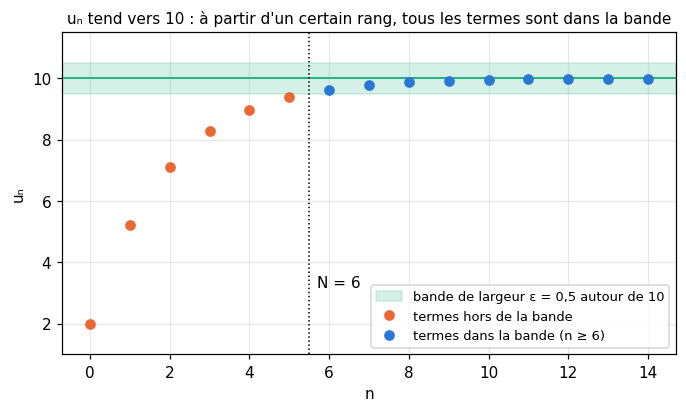
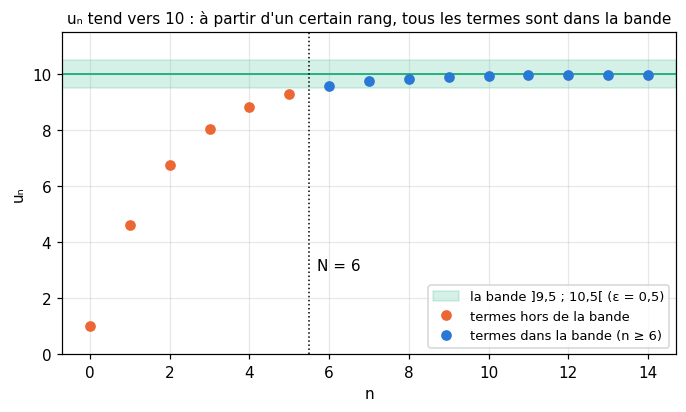
R5: suites (en cours : corrections de la relecture à l'aveugle)
Claude-Session: https://claude.ai/code/session_01Nzd2BLBqKp1WGBHcAcsxs2

diff --git a/tools/chapters/build_r5.py b/tools/chapters/build_r5.py
@@ -96,7 +96,7 @@ PAPER = [
          'mistakes={"une puissance impaire d\'un nombre négatif est négative": 486, '
          '"t₅ : cinq multiplications par −3 depuis t₀": {2 * (-3) ** 4, 2 * (-3) ** 6}}'),
         ("g", "an integer", "next(n for n in range(50) if 500 * 1.2**n > 2000)",
-         'mistakes={"calcule p₇ : la population n\'a pas encore dépassé 2 000": 7, '
+         'fractional="un nombre d\'heures entier : le premier entier qui convient, pas un arrondi", mistakes={"calcule p₇ : la population n\'a pas encore dépassé 2 000": 7, '
          '"les hausses se composent : on multiplie par 1,2 chaque heure, on n\'ajoute pas 100": 16}'),
     ]),
     Paper("R5.4", "Sommes arithmétiques et géométriques", [
@@ -122,6 +122,7 @@ PAPER = [
          '"la raison est −2 : 1 − q = 1 + 2": 1023, "de k = 0 à 9 : 10 termes": 683}'),
         ("h", "an expression in n, as text", '"n**2 + 2*n"',
          'kind="expr", variables=("n",), mistakes={"de k = 0 à n − 1, la somme des k vaut (n − 1)n/2": "n**2 + 4*n", '
+         '"la somme s\'arrête à k = n − 1 : n termes, pas n + 1": "n**2 + 4*n + 3", '
          '"la constante 3 est ajoutée n fois": "n**2 - n + 3", '
          '"le dernier terme est celui de k = n − 1 : 3 + 2(n − 1)": "n**2 + 3*n"}'),
     ]),
@@ -139,7 +140,7 @@ PAPER = [
         ("e", "True or False", "False",
          'mistakes={"la raison 1,1 est plus grande que 1 : les termes grandissent, et les sommes partielles aussi": True}'),
         ("f", "an integer", "next(n for n in range(1, 100) if 4 - 4 * (1 - 0.75**n) < 0.1)",
-         'mistakes={"pour ce nombre de termes, l\'écart à la limite est encore supérieur à 0,1": 12, '
+         'fractional="un nombre de termes est entier : le premier entier qui convient, pas un arrondi", mistakes={"pour ce nombre de termes, l\'écart à la limite est encore supérieur à 0,1": 12, '
          '"l\'écart entre la limite et la somme partielle vaut premier terme × qⁿ / (1 − q) (fiche §5)": 9, '
          '"un nombre de termes plus petit convient déjà : essaie les valeurs une par une": 14}'),
     ]),
@@ -153,7 +154,7 @@ PAPER = [
          'decimals=2, mistakes={"à intérêts simples, les intérêts sont les mêmes chaque année : 2,5 % du capital de départ": '
          'round(3000 * 1.025**10, 2)}'),
         ("d", "an integer", "next(n for n in range(100) if 3000 * 1.025**n > 4000)",
-         'mistakes={"calcule le capital au bout de ce nombre d\'années : il n\'a pas encore dépassé 4 000 €": 11, '
+         'fractional="un nombre d\'années pleines : le premier entier qui convient, pas un arrondi", mistakes={"calcule le capital au bout de ce nombre d\'années : il n\'a pas encore dépassé 4 000 €": 11, '
          '"les intérêts se composent : on multiplie par 1,025 chaque année": 14}'),
         ("e", "a number (2 decimals)", "round(5000 / 1.025**6, 2)",
          'decimals=2, mistakes={"actualiser, c\'est diviser par 1,025⁶, pas multiplier": round(5000 * 1.025**6, 2), '
@@ -199,7 +200,7 @@ PAPER = [
         ("g", "a list (6 decimals)", "[-2 / 3, 2 / 3]",
          'decimals=6, ordered=False, mistakes={"q² = 4/9 a deux solutions, opposées": [2 / 3], '
          '"q² = 4/9 : prends les racines carrées": [-4 / 9, 4 / 9], "q² = 4/9 : la raison est une racine carrée '
-         'de 4/9": [4 / 9]}'),
+         'de 4/9": [4 / 9], "6 décimales : arrondis au plus proche, ne tronque pas": [-0.666666, 0.666666]}'),
     ]),
     Paper("R5.11", "Actualiser : ce que vaut aujourd'hui une somme versée chaque année", [
         ("a", "a number (2 decimals)", "round(1000 / 1.04, 2)",
@@ -211,7 +212,7 @@ PAPER = [
         ("c", "a number (2 decimals)", "round(present_value(1000, 0.04, 8), 2)",
          'decimals=2, mistakes={"chaque versement vaut moins aujourd\'hui : actualise-les": 8000, '
          '"le premier versement arrive dans un an : il est déjà actualisé une fois": '
-         'round(present_value(1000, 0.04, 8, first=0), 2), '
+         '{round(present_value(1000, 0.04, 8, first=0), 2), round(present_value(1000, 0.04, 8, first=0), 2) + 0.01}, '
          '"on cherche la valeur aujourd\'hui : on divise par les puissances de 1,04, on ne multiplie pas": '
          'round(sum(1000 * 1.04**k for k in range(8)), 2), '
          '"il y a 8 versements, de l\'année 1 à l\'année 8": {round(present_value(1000, 0.04, 7), 2), '
@@ -235,7 +236,7 @@ PAPER = [
          'window_means(X12, 4)[1] + (X12[5] - X12[0]) / 4}, '
          '"la différence des deux valeurs est divisée par 4": window_means(X12, 4)[1] + (X12[5] - X12[1])}'),
         ("e", "a list of 2 integers", "[99, 2]",
-         'mistakes={"additionner 100 nombres demande 99 additions": [100, 2], '
+         'mistakes={"additionner 100 nombres demande au minimum 99 additions (on part du premier nombre)": [100, 2], '
          '"la mise à jour fait une soustraction et une addition (la division ne compte pas ici)": [99, 3], '
          '"la mise à jour fait une soustraction, puis une addition à l\'ancienne moyenne": [99, 1], '
          '"dans l\'ordre [direct, mise à jour]": [2, 99]}'),

diff --git a/tools/chapters/figures_r5.py b/tools/chapters/figures_r5.py
@@ -73,7 +73,7 @@ def fig_geometric_ratios() -> None:
                                       ("tend vers 0", "oscille et tend vers 0", "constante", "tend vers +∞"),
                                       (C[0], C[2], C[3], C[1])):
         ax.axhline(0, color="gray", linewidth=0.8)
-        ax.plot(n, q**n, "o-", color=colour, markersize=4, linewidth=1)
+        ax.plot(n, q**n, "o", color=colour, markersize=4)           # points only: a sequence lives on the integers
         ax.set_title(f"q = {french_number(q)} : {comment}", fontsize=10)
         ax.set_xlabel("n")
         ax.grid(True, alpha=0.3)
@@ -84,20 +84,20 @@ def fig_geometric_ratios() -> None:
 
 
 def fig_limit() -> None:
-    """§5: uₙ = 10 − 8 × 0,6ⁿ tends to 10; from N = 6 on, every term stays within ε = 0,5 of 10."""
+    """§5: uₙ = 10 − 9 × 0,6ⁿ tends to 10; from N = 6 on, every term stays within ε = 0,5 of 10."""
     n = np.arange(0, 15)
-    u = 10 - 8 * 0.6**n
+    u = 10 - 9 * 0.6**n
     fig, ax = plt.subplots(figsize=(7.2, 3.8))
-    ax.axhspan(9.5, 10.5, color=C[2], alpha=0.18, label="bande de largeur ε = 0,5 autour de 10")
+    ax.axhspan(9.5, 10.5, color=C[2], alpha=0.18, label="la bande ]9,5 ; 10,5[ (ε = 0,5)")
     ax.axhline(10, color=C[2], linewidth=1.2)
     inside = np.abs(u - 10) < 0.5
     ax.plot(n[~inside], u[~inside], "o", color=C[1], markersize=6, label="termes hors de la bande")
     ax.plot(n[inside], u[inside], "o", color=C[0], markersize=6, label="termes dans la bande (n ≥ 6)")
     ax.axvline(5.5, color="black", linestyle=":", linewidth=1)
-    ax.text(5.7, 3.2, "N = 6", fontsize=10)
+    ax.text(5.7, 3.0, "N = 6", fontsize=10)
     ax.set_xlabel("n")
     ax.set_ylabel("uₙ")
-    ax.set_ylim(1, 11.5)
+    ax.set_ylim(0, 11.5)
     ax.set_title("uₙ tend vers 10 : à partir d'un certain rang, tous les termes sont dans la bande", fontsize=10)
     ax.grid(True, alpha=0.3)
     ax.legend(fontsize=8.5, loc="lower right")

diff --git a/chapitres/r5_suites/01_fiche.md b/chapitres/r5_suites/01_fiche.md
@@ -50,7 +50,7 @@ Parcours essentiel : tout sauf R5.Q6, R5.R2, R5.6, R5.10, R5.17, R5.19, R5.20 et
 5. Somme de $n$ termes consécutifs d'une suite géométrique de raison $q \ne 1$ : **premier terme × $\frac{1 - q^n}{1 - q}$** ; si $q = 1$, $n$ fois le premier terme.
 6. $u_n$ **tend vers** $\ell$ si, pour tout écart $\varepsilon > 0$, tous les termes sont à moins de $\varepsilon$ de $\ell$ à partir d'un certain rang.
 7. $q^n$ tend vers 0 si $\lvert q \rvert < 1$, vers $+\infty$ si $q > 1$ ; il reste égal à 1 si $q = 1$ et n'a pas de limite si $q \le -1$.
-8. Si $\lvert q \rvert < 1$, la **somme infinie** $u_0 + u_0 q + u_0 q^2 + \dots$ vaut $\frac{u_0}{1 - q}$ ; sinon elle n'a pas de valeur finie (pour $u_0 \ne 0$).
+8. Si $\lvert q \rvert < 1$, la **somme infinie** $u_0 + u_0 q + u_0 q^2 + \dots$ vaut $\frac{u_0}{1 - q}$ ; si $\lvert q \rvert \ge 1$ (et $u_0 \ne 0$), elle n'a pas de valeur.
 9. **Moyenne mobile** sur $k$ valeurs : la moyenne des $k$ dernières valeurs, chacune de poids $\frac{1}{k}$.
 10. **Moyenne exponentielle** : $v_0 = 0$ et $v_t = \beta\,v_{t-1} + (1 - \beta)\,x_t$ ; les poids des valeurs passées forment une suite géométrique de raison $\beta$, et les premières valeurs de $v$ sont tirées vers 0.
 
@@ -170,7 +170,7 @@ Plus généralement, $v_n = v_p\,q^{\,n - p}$ ; si la suite commence au rang 1, 
 
 ### Reconnaître une suite géométrique
 
-Pour une suite dont aucun terme n'est nul, elle est géométrique si et seulement si le **quotient** $\frac{u_{n+1}}{u_n}$ est le même pour tous les $n$ ; ce quotient est la raison.
+Une suite dont aucun terme n'est nul est géométrique si et seulement si le **quotient** $\frac{u_{n+1}}{u_n}$ est le même pour tous les $n$ ; ce quotient est la raison.
 - 48, 12, 3, 0,75 : les quotients valent tous $\frac{1}{4}$ ;
 - 2, 6, 12, 20 : les quotients valent 3, 2, $\frac{5}{3}$, elle n'est pas géométrique.
 
@@ -276,15 +276,15 @@ En Python, `sum` additionne les termes un par un ; la formule donne le même nom
 
 ### « Se rapprocher autant qu'on veut, et y rester »
 
-Revenons à une suite définie par récurrence, $u_0 = 2$ et $u_{n+1} = 0{,}6\,u_n + 4$. Ses termes valent environ
+Revenons à une suite définie par récurrence, $u_0 = 1$ et $u_{n+1} = 0{,}6\,u_n + 4$. Ses termes valent environ
 
-$$2 \quad 5{,}2 \quad 7{,}12 \quad 8{,}27 \quad 8{,}96 \quad 9{,}38 \quad 9{,}63 \quad 9{,}78 \quad 9{,}87 \quad 9{,}92 \quad \dots$$
+$$1 \quad 4{,}6 \quad 6{,}76 \quad 8{,}06 \quad 8{,}83 \quad 9{,}30 \quad 9{,}58 \quad 9{,}75 \quad 9{,}85 \quad 9{,}91 \quad \dots$$
 
 Ils se rapprochent de 10, sans jamais l'atteindre. Dire que $u_n$ **tend vers 10**, c'est dire que l'écart $\lvert u_n - 10 \rvert$ finit par devenir aussi petit qu'on veut, **et le reste**. On fixe un écart toléré $\varepsilon$ (« epsilon ») : à partir d'un certain rang $N$, tous les termes sont dans la bande $]10 - \varepsilon \;;\; 10 + \varepsilon[$.
 
 ![uₙ tend vers 10 : à partir du rang 6, tous les termes sont à moins de 0,5 de 10](figures/limite.png)
 
-Ici (on le montrera plus bas), $u_n = 10 - 8 \times 0{,}6^n$, donc $\lvert u_n - 10 \rvert = 8 \times 0{,}6^n$. Pour $\varepsilon = 0{,}5$ : $8 \times 0{,}6^5 \approx 0{,}62$ est trop grand, mais $8 \times 0{,}6^6 \approx 0{,}37 < 0{,}5$, et l'écart ne fait que diminuer ensuite : $N = 6$ convient (figure). Pour $\varepsilon = 0{,}01$, il faut aller plus loin : $N = 14$. Plus l'écart toléré est petit, plus $N$ est grand, mais il existe **toujours**.
+Ici (on le montrera plus bas), $u_n = 10 - 9 \times 0{,}6^n$, donc $\lvert u_n - 10 \rvert = 9 \times 0{,}6^n$. Pour $\varepsilon = 0{,}5$ : $9 \times 0{,}6^5 \approx 0{,}70$ est trop grand, mais $9 \times 0{,}6^6 \approx 0{,}42 < 0{,}5$, et l'écart ne fait que diminuer ensuite : $N = 6$ convient (figure). Pour $\varepsilon = 0{,}01$, il faut aller plus loin : $N = 14$. Plus l'écart toléré est petit, plus $N$ est grand, mais il existe **toujours**.
 
 > **Définition.** La suite $(u_n)$ **tend vers** le réel $\ell$, ou **converge vers** $\ell$, si : pour tout $\varepsilon > 0$, il existe un entier $N$ tel que, pour tout $n \ge N$, $\lvert u_n - \ell \rvert < \varepsilon$. On écrit $\lim_{n \to +\infty} u_n = \ell$, ou $u_n \to \ell$. Le nombre $\ell$ est la **limite** de la suite.
 
@@ -312,19 +312,21 @@ Pour $q^n$ avec $\lvert q \rvert < 1$, l'intuition est celle du §3 : chaque pas
 ### Calculer avec les limites
 
 Si $u_n \to \ell$ et $v_n \to \ell'$ (deux réels), alors $u_n + v_n \to \ell + \ell'$, $c\,u_n \to c\,\ell$ pour toute constante $c$, et $u_n\,v_n \to \ell\,\ell'$ ; si de plus $\ell' \ne 0$, $\frac{u_n}{v_n} \to \frac{\ell}{\ell'}$. Ces règles, qu'on admet ici, font presque tout le travail :
-- $10 - 8 \times 0{,}6^n \to 10 - 8 \times 0 = 10$ ;
+- $10 - 9 \times 0{,}6^n \to 10 - 9 \times 0 = 10$ ;
 - $3 + \frac{2}{n} \to 3 + 0 = 3$ ;
 - pour un quotient, on divise en haut et en bas par la plus grande puissance de $n$ : $\frac{2n + 1}{n + 3} = \frac{2 + \frac{1}{n}}{1 + \frac{3}{n}} \to \frac{2 + 0}{1 + 0} = 2$.
 
+Avec des limites infinies : si $u_n \to +\infty$ et $v_n \to +\infty$, alors $u_n + v_n \to +\infty$ et $u_n\,v_n \to +\infty$ ; si $u_n \to +\infty$ et $v_n \to \ell$ (un réel), alors $u_n + v_n \to +\infty$ ; et si $u_n \to +\infty$, alors $\frac{1}{u_n} \to 0$. Par exemple, $n^2 - 10n = n\,(n - 10)$ tend vers $+\infty$, produit de deux facteurs qui tendent vers $+\infty$. En revanche, $u_n - v_n$ avec $u_n$ et $v_n$ qui tendent tous deux vers $+\infty$ peut faire n'importe quoi : il faut transformer l'écriture.
+
 ### Une récurrence affine : $u_{n+1} = a\,u_n + b$
 
-La suite du début, $u_{n+1} = 0{,}6\,u_n + 4$, est de la forme $u_{n+1} = a\,u_n + b$. Deux idées suffisent à l'étudier.
+La suite du début, $u_{n+1} = 0{,}6\,u_n + 4$, est de la forme $u_{n+1} = a\,u_n + b$, avec $a \ne 1$ (pour $a = 1$, c'est une suite arithmétique de raison $b$). Deux idées suffisent à l'étudier.
 
 **Si elle converge, sa limite est un point fixe.** Si $u_n \to \ell$, alors $u_{n+1} \to \ell$ aussi (c'est la même suite, décalée d'un rang), et $a\,u_n + b \to a\,\ell + b$. Donc $\ell = a\,\ell + b$ : la limite est la solution de cette équation (R2). Ici, $\ell = 0{,}6\,\ell + 4$ donne $0{,}4\,\ell = 4$, soit $\ell = 10$.
 
 **L'écart au point fixe est une suite géométrique.** Posons $e_n = u_n - \ell$. En soustrayant $\ell = a\,\ell + b$ à $u_{n+1} = a\,u_n + b$, on obtient $u_{n+1} - \ell = a\,(u_n - \ell)$, c'est-à-dire $e_{n+1} = a\,e_n$ : l'écart est multiplié par $a$ à chaque pas. Donc $e_n = e_0\,a^n$ et
 
-$$u_n = \ell + (u_0 - \ell)\,a^n, \qquad \text{ici } u_n = 10 + (2 - 10) \times 0{,}6^n = 10 - 8 \times 0{,}6^n.$$
+$$u_n = \ell + (u_0 - \ell)\,a^n, \qquad \text{ici } u_n = 10 + (1 - 10) \times 0{,}6^n = 10 - 9 \times 0{,}6^n.$$
 
 C'est la formule utilisée plus haut. Si $\lvert a \rvert < 1$, $a^n \to 0$ et $u_n \to \ell$, **quel que soit le premier terme** ; si $\lvert a \rvert > 1$, l'écart explose (sauf si $u_0 = \ell$ : la suite reste alors égale à $\ell$). Ce raisonnement donne aussi le raccourci promis au §1 : pour $u_0 = 5$ et $u_{n+1} = 2u_n - 3$, le point fixe vaut 3, et $u_n = 3 + 2 \times 2^n$. Vérifie : $u_4 = 3 + 2 \times 16 = 35$.
 
@@ -349,8 +351,8 @@ Pourquoi une somme d'une infinité de nombres positifs peut-elle être finie ? P
 ⚠ **Des termes qui tendent vers 0 ne suffisent pas.** $1 + \frac{1}{2} + \frac{1}{3} + \frac{1}{4} + \dots$ n'a pas de valeur finie, alors que ses termes tendent vers 0 : ses sommes partielles grossissent sans fin, très lentement (environ 7,5 après mille termes, 14,4 après un million). On l'admet ici ; ce qui compte pour une suite géométrique, c'est que $\lvert q \rvert < 1$.
 
 ```python
->>> [round(10 - 8 * 0.6**n, 2) for n in range(6)]
-[2.0, 5.2, 7.12, 8.27, 8.96, 9.38]
+>>> [round(10 - 9 * 0.6**n, 2) for n in range(6)]
+[1.0, 4.6, 6.76, 8.06, 8.83, 9.3]
 >>> round(sum(0.6**k for k in range(50)), 6), 1 / (1 - 0.6)
 (2.5, 2.5)
 ```
@@ -375,9 +377,9 @@ La **moyenne mobile** sur une **fenêtre** de $k$ valeurs remplace la valeur de 
 
 $$m_t = \frac{x_{t-k+1} + \dots + x_{t-1} + x_t}{k} = \frac{1}{k}\sum_{j=t-k+1}^{t} x_j.$$
 
-Avec les six valeurs $x = (12, 15, 9, 18, 21, 12)$ et une fenêtre de 3 :
+Avec les six valeurs $x_1, \dots, x_6 = 14, 11, 17, 20, 23, 14$ et une fenêtre de 3 (la première moyenne est $m_3$) :
 
-$$m_3 = \frac{12 + 15 + 9}{3} = 12, \quad m_4 = \frac{15 + 9 + 18}{3} = 14, \quad m_5 = \frac{9 + 18 + 21}{3} = 16, \quad m_6 = \frac{18 + 21 + 12}{3} = 17.$$
+$$m_3 = \frac{14 + 11 + 17}{3} = 14, \quad m_4 = \frac{11 + 17 + 20}{3} = 16, \quad m_5 = \frac{17 + 20 + 23}{3} = 20, \quad m_6 = \frac{20 + 23 + 14}{3} = 19.$$
 
 La fenêtre **glisse** d'un cran à chaque instant : une valeur entre, la plus ancienne sort. Trois remarques :
 - elle donne $N - k + 1$ moyennes pour $N$ valeurs (ici $6 - 3 + 1 = 4$) : les $k - 1$ premiers instants n'ont pas de moyenne, faute de valeurs assez nombreuses ;
@@ -385,9 +387,9 @@ La fenêtre **glisse** d'un cran à chaque instant : une valeur entre, la plus a
 - une fenêtre plus large lisse davantage, mais **réagit plus tard** à un changement de tendance (sur la figure, la courbe bleue est en retard sur la série).
 
 ```python
->>> x = [12, 15, 9, 18, 21, 12]
->>> sum(x[0:3]) / 3, sum(x[1:4]) / 3, sum(x[3:6]) / 3
-(12.0, 14.0, 17.0)
+>>> x = [14, 11, 17, 20, 23, 14]
+>>> sum(x[0:3]) / 3, sum(x[1:4]) / 3, sum(x[2:5]) / 3, sum(x[3:6]) / 3
+(14.0, 16.0, 20.0, 19.0)
 ```
 
 ### La moyenne exponentielle
@@ -424,7 +426,7 @@ Le choix de $\beta$ règle ce compromis :
 - $\beta$ **proche de 1** : la moyenne garde beaucoup de passé, elle lisse fort, mais réagit lentement ;
 - $\beta$ **proche de 0** : elle suit les valeurs de près ; pour $\beta = 0$, $v_t = x_t$, aucun lissage.
 
-⚠ **Un démarrage trop bas.** Parce que $v_0 = 0$, les premières valeurs de la moyenne sont tirées vers 0 : sur la figure, la courbe orange part de 4 alors que la série tourne autour de 20, et ne rattrape la série qu'au bout d'une dizaine de pas. Les premiers poids ne « remplissent » pas encore toute la moyenne. Le chapitre 19 de workbookIA montre comment l'optimiseur Adam corrige ce démarrage.
+⚠ **Un démarrage trop bas.** Parce que $v_0 = 0$, les premières valeurs de la moyenne sont tirées vers 0 : sur la figure, la courbe orange part d'environ 4 alors que la série tourne autour de 20, et ne rattrape la série qu'au bout d'une dizaine de pas. Les premiers poids ne « remplissent » pas encore toute la moyenne. Le chapitre 19 de workbookIA montre comment l'optimiseur Adam corrige ce démarrage.
 
 🔗 **Dans workbookIA** — le **momentum** (ch. 19) remplace le gradient de chaque pas par une moyenne exponentielle des gradients passés, pour amortir leurs oscillations ; Adam en garde deux. Les courbes d'entraînement sont souvent lissées par une moyenne exponentielle avant d'être tracées. Et la mise à jour d'une estimation par petits pas en apprentissage par renforcement (ch. 11 et 26) a la même forme : garder une part de l'ancienne valeur, ajouter une part de la nouvelle.
 
@@ -434,7 +436,7 @@ Le choix de $\beta$ règle ce compromis :
 
 | Piège | Faux | Juste |
 |---|---|---|
-| rang et valeur | $u_{n+1} = u_n + 1$ | $u_{n+1}$ est le terme suivant ; $u_n + 1$ est $u_n$ augmenté de 1 |
+| rang et valeur | $u_{n+1}$ et $u_n + 1$ sont le même nombre | $u_{n+1}$ est le terme suivant ; $u_n + 1$ est $u_n$ augmenté de 1 |
 | récurrence sans premier terme | $u_{n+1} = 2u_n - 3$ définit une suite | il faut aussi $u_0$ |
 | premier rang | $u_n = u_0 + n\,r$ pour une suite qui commence à $u_1$ | $u_n = u_1 + (n - 1)\,r$ |
 | géométrique comme arithmétique | $u_n = u_0 \times q \times n$ | $u_n = u_0\,q^n$ |
@@ -446,7 +448,7 @@ Le choix de $\beta$ règle ce compromis :
 | somme infinie | $\sum q^k = \frac{1}{1 - q}$ pour tout $q$ | seulement si $\lvert q \rvert < 1$ |
 | premier terme de la somme infinie | $\sum_{k=1}^{+\infty} q^k = \frac{1}{1 - q}$ | premier terme $q$ : $\frac{q}{1 - q}$ |
 | termes qui tendent vers 0 | la somme infinie est donc finie | $1 + \frac{1}{2} + \frac{1}{3} + \dots$ est infinie |
-| point fixe | la solution de $\ell = a\ell + b$ est toujours la limite | seulement si la suite converge ($\lvert a \rvert < 1$) |
+| point fixe | la solution de $\ell = a\ell + b$ est toujours la limite | seulement si la suite converge (c'est le cas si $\lvert a \rvert < 1$) |
 | quantificateurs de la limite | « il existe $N$ » choisi avant $\varepsilon$ | $\varepsilon$ d'abord, puis $N$ qui dépend de lui |
 | moyenne mobile | elle donne une moyenne par valeur | $N - k + 1$ moyennes pour $N$ valeurs |
 | sens de $\beta$ | un grand $\beta$ suit les valeurs de près | un grand $\beta$ lisse fort et réagit lentement |

diff --git a/chapitres/r5_suites/02_exercices.md b/chapitres/r5_suites/02_exercices.md
@@ -30,7 +30,7 @@ Sans la fiche, en 4 minutes chacun. Réponds vite, puis vérifie dans `05_soluti
 
 Pour chaque suite (on suppose que la règle des premiers termes continue), dis si elle est arithmétique, géométrique, les deux ou aucune, et donne sa raison quand elle en a une.
 1. 4, 9, 14, 19, …
-2. 3, 6, 12, 24, …
+2. 5, 10, 20, 40, …
 3. 1, 4, 9, 16, …
 4. 10, 7, 4, 1, …
 5. 2, −6, 18, −54, …
@@ -46,7 +46,7 @@ Vrai ou faux ?
 3. Pour tout réel $q$ et tout entier $n \ge 1$, $1 + q + \dots + q^{n-1} = \frac{1 - q^n}{1 - q}$.
 4. Si $q = 1$, $1 + q + \dots + q^{n-1} = n$.
 5. La somme de termes consécutifs d'une suite arithmétique vaut le nombre de termes multiplié par la moyenne du premier et du dernier.
-6. $\sum_{k=0}^{4} 2^k = 2^5 - 1$.
+6. $\sum_{k=0}^{3} 5^k = \frac{5^4 - 1}{4}$.
 7. $\sum_{k=1}^{5} 3^k = \frac{1 - 3^5}{1 - 3}$.
 
 ### R5.Q4 — Converge ou diverge ? 🧠 ★ ⏱ 4 min
@@ -150,7 +150,7 @@ $(u_n)$ est la suite arithmétique de premier terme $u_0 = 7$ et de raison 4 ; $
 | c | $a_{11}$ | un nombre |
 | d | le rang du premier terme strictement négatif de $(a_n)$ | un nombre entier |
 | e | le rang $n$ tel que $u_n = 2\,023$ | un nombre entier |
-| f | 2 026 est-il un terme de $(u_n)$ ? | vrai ou faux |
+| f | 2 026 est un terme de $(u_n)$ | vrai ou faux |
 | g | une bougie de 24 cm raccourcit de 1,5 cm par heure : au bout de combien d'heures est-elle entièrement consumée ? | un nombre entier |
 
 ### Ex R5.3 — Terme général d'une suite géométrique ✏ ★ ⏱ 10 min
@@ -196,7 +196,7 @@ Pour chaque somme, écris dans ta copie le premier terme, le nombre de termes et
 | b | $2 + \frac{2}{5} + \frac{2}{25} + \frac{2}{125} + \dots$ | une fraction |
 | c | $9 - 6 + 4 - \frac{8}{3} + \dots$ | une fraction |
 | d | $\sum_{k=1}^{+\infty} 0{,}3^k$ (attention au premier terme) | une fraction |
-| e | la somme infinie $1 + 1{,}1 + 1{,}1^2 + \dots$ a-t-elle une valeur finie ? | vrai ou faux |
+| e | la somme infinie $1 + 1{,}1 + 1{,}1^2 + \dots$ a une valeur finie | vrai ou faux |
 | f | à partir de combien de termes la somme partielle de a) est-elle à moins de 0,1 de sa limite ? (essaie des valeurs) | un nombre entier |
 
 ### Ex R5.6 — Intérêts composés et actualisation ✏ ★★ ⏱ 20 min
@@ -224,7 +224,7 @@ On mesure les valeurs $x_1, \dots, x_5 = 10, 20, 15, 5, 25$. On calcule la moyen
 | | Question | Réponse attendue |
 |---|---|---|
 | a | la liste `[v1, v2, v3, v4, v5]` | une liste de 5 nombres (4 décimales) |
-| b | la liste des moyennes mobiles sur une fenêtre de 3 valeurs | une liste de 3 nombres (2 décimales) |
+| b | la liste des moyennes mobiles sur une fenêtre de 3 valeurs | une liste (2 décimales) |
 | c | la moyenne des cinq valeurs | un nombre |
 | d | $v_5$ est plus petit que la moyenne des cinq valeurs | vrai ou faux |
 | e | le poids de $x_1$ dans $v_3$, en écrivant $v_3$ en fonction de $x_1$, $x_2$ et $x_3$ | un nombre |
@@ -244,7 +244,7 @@ Dans ta copie : pourquoi les premières valeurs de $v$ sont-elles si petites ?
 | d | son premier terme $v_0$ | un nombre entier |
 | e | $(w_n)$ est géométrique à termes positifs, $w_1 = 50$ et $w_3 = 32$ : sa raison | un nombre |
 | f | son premier terme $w_0$ | un nombre |
-| g | $(s_n)$ est géométrique, $s_2 = 18$ et $s_4 = 8$ : la liste des valeurs possibles de sa raison | une liste (6 décimales) |
+| g | $(s_n)$ est géométrique, $s_2 = 18$ et $s_4 = 8$ : la liste des valeurs possibles de sa raison | une liste, dans l'ordre que tu veux : des fractions entre guillemets, ou des nombres arrondis à 6 décimales |
 
 <a id="demonstrations"></a>
 
@@ -314,7 +314,7 @@ On lisse les valeurs $x_1, \dots, x_8 = 12, 18, 15, 9, 21, 24, 6, 15$ par une mo
 | b | $m_5$, calculé directement | un nombre |
 | c | le numéro de la bonne formule ci-dessus | un nombre entier |
 | d | $m_6$, calculé à partir de $m_5$ avec cette formule | un nombre |
-| e | pour une fenêtre de 100 valeurs, la liste `[direct, mise à jour]` du nombre d'additions et de soustractions qu'il faut pour obtenir une nouvelle moyenne : en additionnant les 100 valeurs, puis avec la formule de c) | une liste de 2 entiers |
+| e | pour une fenêtre de 100 valeurs, la liste `[direct, mise à jour]` du nombre minimal d'additions et de soustractions qu'il faut pour obtenir une nouvelle moyenne : en additionnant les 100 valeurs, puis avec la formule de c) (sans compter la division) | une liste de 2 entiers |
 | f | $m_8$ | un nombre |
 
 Dans ta copie : quand des mesures arrivent une par une (un capteur, les pas d'un entraînement suivis en direct), pourquoi cette mise à jour est-elle utile ? Que faut-il quand même garder en mémoire ?

diff --git a/chapitres/r5_suites/05_solutions.md b/chapitres/r5_suites/05_solutions.md
@@ -31,7 +31,7 @@
 3. **Faux** : seulement pour $q \ne 1$ (pour $q = 1$, la formule divise par zéro).
 4. **Vrai** : $n$ termes égaux à 1.
 5. **Vrai** : c'est la règle « nombre de termes × (premier + dernier) / 2 ».
-6. **Vrai** : $1 + 2 + 4 + 8 + 16 = 31 = 2^5 - 1$ (5 termes, $\frac{1 - 2^5}{1 - 2} = 2^5 - 1$).
+6. **Vrai** : $1 + 5 + 25 + 125 = 156 = \frac{625 - 1}{4}$ (4 termes, raison 5 : $\frac{5^4 - 1}{5 - 1}$).
 7. **Faux** : la somme commence à $3^1 = 3$ et a 5 termes : $3 \times \frac{1 - 3^5}{1 - 3} = 363$. La formule proposée, $\frac{1 - 3^5}{1 - 3} = 121$, est celle de $\sum_{k=0}^{4} 3^k$.
 
 ### R5.Q4 — Converge ou diverge ?
@@ -194,13 +194,13 @@
 
 Dans ta copie : les premières valeurs sont petites parce que $v_0 = 0$ et que $\beta = 0{,}8$ garde 80 % de cette valeur nulle à chaque pas ; la somme des poids des valeurs déjà vues est encore loin de 1 (à $t = 1$, seulement 0,2).
 
-**Erreurs fréquentes.** Échanger 0,8 et 0,2 ; partir de $v_0 = x_1$ ; donner quatre moyennes mobiles au lieu de trois ; oublier le facteur 0,2 dans le poids de e.
+**Erreurs fréquentes.** Échanger 0,8 et 0,2 ; partir de $v_0 = x_1$ ; donner quatre moyennes mobiles au lieu de trois ($5 - 3 + 1 = 3$) ; oublier le facteur 0,2 dans le poids de e.
 
 **Variante.** Même série, $\beta = 0{,}5$ : $v_3$ ? *Réponse* : $v_1 = 5$, $v_2 = 12{,}5$, $v_3 = 13{,}75$.
 
 ### Ex R5.8 — Retrouver le premier terme et la raison à partir de deux termes
 
-**Réponses** : a) `4` · b) `1` · c) `-2` · d) `-6` · e) `0.8` · f) `62.5` · g) `[-0.666667, 0.666667]`.
+**Réponses** : a) `4` · b) `1` · c) `-2` · d) `-6` · e) `0.8` · f) `62.5` · g) `["-2/3", "2/3"]` (ou `[-0.666667, 0.666667]`, dans n'importe quel ordre).
 
 **Démarche.**
 - a) $u_{10} - u_4 = 6r = 24$, donc $r = 4$ ; b) $u_0 = u_4 - 4r = 17 - 16 = 1$.
@@ -286,7 +286,7 @@ Dans ta copie : $\gamma$ joue le rôle de $\frac{1}{1{,}04}$, le facteur qui mul
 - a) $\frac{12 + 18 + 15 + 9}{4} = \frac{54}{4} = 13{,}5$ ; b) $\frac{18 + 15 + 9 + 21}{4} = 15{,}75$.
 - c) $m_{t+1} - m_t = \frac{(x_{t-2} + x_{t-1} + x_t + x_{t+1}) - (x_{t-3} + x_{t-2} + x_{t-1} + x_t)}{4} = \frac{x_{t+1} - x_{t-3}}{4}$ : la formule 1.
 - d) $m_6 = m_5 + \frac{x_6 - x_2}{4} = 15{,}75 + \frac{24 - 18}{4} = 17{,}25$.
-- e) 99 additions pour additionner 100 nombres ; une soustraction et une addition pour la mise à jour (et une division dans les deux cas).
+- e) Au minimum 99 additions pour additionner 100 nombres (on part du premier, pas de 0) ; une soustraction et une addition pour la mise à jour (et une division dans les deux cas, qu'on ne compte pas).
 - f) $m_7 = 17{,}25 + \frac{6 - 15}{4} = 15$, puis $m_8 = 15 + \frac{15 - 9}{4} = 16{,}5$.
 
 Dans ta copie : chaque nouvelle mesure coûte deux opérations au lieu de $k$, quelle que soit la largeur de la fenêtre ; il faut quand même garder en mémoire les $k$ dernières valeurs, pour savoir laquelle sort. (Et, sur des millions de mises à jour, les arrondis des flottants s'accumulent : on recalcule de temps en temps la moyenne en entier.)
@@ -361,7 +361,7 @@ Dans ta copie : chaque nouvelle mesure coûte deux opérations au lieu de $k$, q
 
 **Démarche.** `ns = np.arange(31)` et une ligne par suite, tracée en points. (a) converge vers 5 en restant en dessous ($4 \times 0{,}7^n > 0$) ; (b) converge vers 2 en oscillant autour ; (c) n'a pas de limite : ses termes pairs s'approchent de 1, ses termes impairs de −1 ; (d) tend vers $+\infty$, lentement ($\sqrt{30} \approx 5{,}5$).
 
-**Erreurs fréquentes.** Tracer des lignes continues (une suite n'est définie qu'aux entiers) ; écrire `(-1) ** ns` avec des entiers et `ns / (ns + 1)` (ça marche, mais `(-1.0) ** ns` évite les surprises avec des puissances négatives) ; prendre (c) pour une suite convergente parce que $\frac{n}{n + 1} \to 1$.
+**Erreurs fréquentes.** Relier les points par des lignes, qui suggèrent des valeurs entre les entiers (une suite n'est définie qu'aux entiers) ; écrire `(-1) ** ns` avec des entiers et `ns / (ns + 1)` (ça marche, mais `(-1.0) ** ns` évite les surprises avec des puissances négatives) ; prendre (c) pour une suite convergente parce que $\frac{n}{n + 1} \to 1$.
 
 ### Ex R5.21 — Chasse à l'erreur : un décalage d'indice dans une somme
 

diff --git a/chapitres/r5_suites/04_indices.md b/chapitres/r5_suites/04_indices.md
@@ -112,7 +112,7 @@ Développe $v_t$ en remplaçant $v_{t-1}$, puis $v_{t-2}$ : chaque pas en arriè
 </details>
 <details><summary>Indice 3</summary>
 
-1 : 0,3. Pour 2, le poids de $x_{t-1}$ est $0{,}7 \times 0{,}3$. Pour 6, que reste-t-il de $v_{t-1}$ ?
+1 : 0,3. Pour 2, développe $v_t = 0{,}3\,x_t + 0{,}7\,v_{t-1}$ et regarde avec quel poids $x_{t-1}$ entre dans $v_{t-1}$. Pour 6, que reste-t-il de $v_{t-1}$ ?
 
 </details>
 
@@ -152,7 +152,7 @@ Calcule les termes, compare-les aux puissances de 3 : il manque toujours le mêm
 </details>
 <details><summary>Indice 3</summary>
 
-1 : $u_1 = 3 \times 2 - 2 = 4$. Pour 3, l'hérédité : $u_{n+1} = 3u_n - 2 = 3(3^n + 1) - 2 = \dots$
+1 : $u_1 = 3 \times 2 - 2 = 4$. Pour 3, dans l'hérédité, remplace $u_n$ par ta formule dans $3u_n - 2$, puis simplifie jusqu'à retrouver la formule au rang $n + 1$.
 
 </details>
 
@@ -358,7 +358,7 @@ Relis la somme des premiers entiers (fiche de R4, §5) et la somme arithmétique
 </details>
 <details><summary>Indice 3</summary>
 
-Pour 1, chaque colonne vaut 101 et il y a 100 colonnes. Pour 3, les $n$ colonnes valent toutes $u_0 + u_{n-1}$, donc $2S = n(u_0 + u_{n-1})$. Pour 4, le premier terme est 1 et le dernier $2n - 1$.
+Pour 1, chaque colonne vaut 101 : combien y a-t-il de colonnes ? Pour 3, que vaut chaque colonne, d'après 2 ? Pour 4, le premier terme est 1 et le dernier $2n - 1$.
 
 </details>
 
@@ -380,7 +380,7 @@ Le versement de l'année $k$ vaut aujourd'hui $\frac{1\,000}{1{,}04^k}$. Ces val
 </details>
 <details><summary>Indice 3</summary>
 
-a : $\frac{1\,000}{1{,}04} \approx 961{,}54$. Pour c, premier terme $\frac{1\,000}{1{,}04}$, raison $\frac{1}{1{,}04}$, 8 termes. Pour e, refais c) avec 1,06.
+a : $\frac{1\,000}{1{,}04} \approx 961{,}54$. Pour c, le premier terme est la réponse de a, la raison celle de b, et il y a 8 termes. Pour e, refais c) avec 1,06.
 
 </details>
 
@@ -393,7 +393,7 @@ Relis « La moyenne mobile » (fiche §6).
 </details>
 <details><summary>Indice 2</summary>
 
-Écris $m_{t+1}$ et $m_t$ l'une sous l'autre : trois valeurs sont communes, une entre, une sort.
+Écris $m_{t+1}$ et $m_t$ l'une sous l'autre, valeur par valeur : lesquelles apparaissent dans les deux ? Laquelle entre, laquelle sort ?
 
 </details>
 <details><summary>Indice 3</summary>
@@ -530,7 +530,7 @@ Deux questions à te poser : quelle est la solution de $\ell = 0{,}75\,\ell + 2$
 </details>
 <details><summary>Indice 3</summary>
 
-Pour c, écris l'écart au départ, puis demande-toi combien de multiplications par 0,75 il faut pour le rendre 800 fois plus petit : estime $0{,}75^{10}$ et $0{,}75^{50}$ (par exemple à partir de $0{,}75^2 \approx 0{,}56$).
+Pour c, écris l'écart initial (il découle de ta prédiction a), puis calcule de proche en proche $0{,}75^2$, $0{,}75^4$, $0{,}75^8$… : combien de multiplications par 0,75 faut-il pour que l'écart passe sous 0,01 ?
 
 </details>
 

diff --git a/annexes/formulaire.md b/annexes/formulaire.md
@@ -92,7 +92,7 @@ Toutes les formules du workbook, rangées dans l'ordre des chapitres. Chaque cha
 | $q^n$ | $\to 0$ si $\lvert q \rvert < 1$ ; $= 1$ si $q = 1$ ; $\to +\infty$ si $q > 1$ ; pas de limite si $q \le -1$ |
 | récurrence affine | $u_{n+1} = a\,u_n + b$ ($a \ne 1$) : $\ell = \frac{b}{1 - a}$, $u_n = \ell + (u_0 - \ell)\,a^n$ ; converge vers $\ell$ si $\lvert a \rvert < 1$ |
 | somme infinie | $\lvert q \rvert < 1$ : $\sum_{k=0}^{+\infty} u_0\,q^k = \frac{u_0}{1 - q}$ |
-| intérêts composés, actualisation | $C_n = C_0\,(1 + t)^n$ ; valeur actuelle de $S$ dans $n$ ans : $\frac{S}{(1 + t)^n}$ |
+| intérêts composés, actualisation | taux $t$ en décimal : $C_n = C_0\,(1 + t)^n$ ; valeur actuelle de $S$ dans $n$ ans : $\frac{S}{(1 + t)^n}$ |
 | moyenne mobile | $m_t = \frac{1}{k}\sum_{j=t-k+1}^{t} x_j$ ; $N - k + 1$ moyennes pour $N$ valeurs |
 | moyenne exponentielle | $v_0 = 0$, $v_t = \beta\,v_{t-1} + (1 - \beta)\,x_t$ ; poids $(1 - \beta)\,\beta^k$ pour la valeur d'âge $k$ |
 
